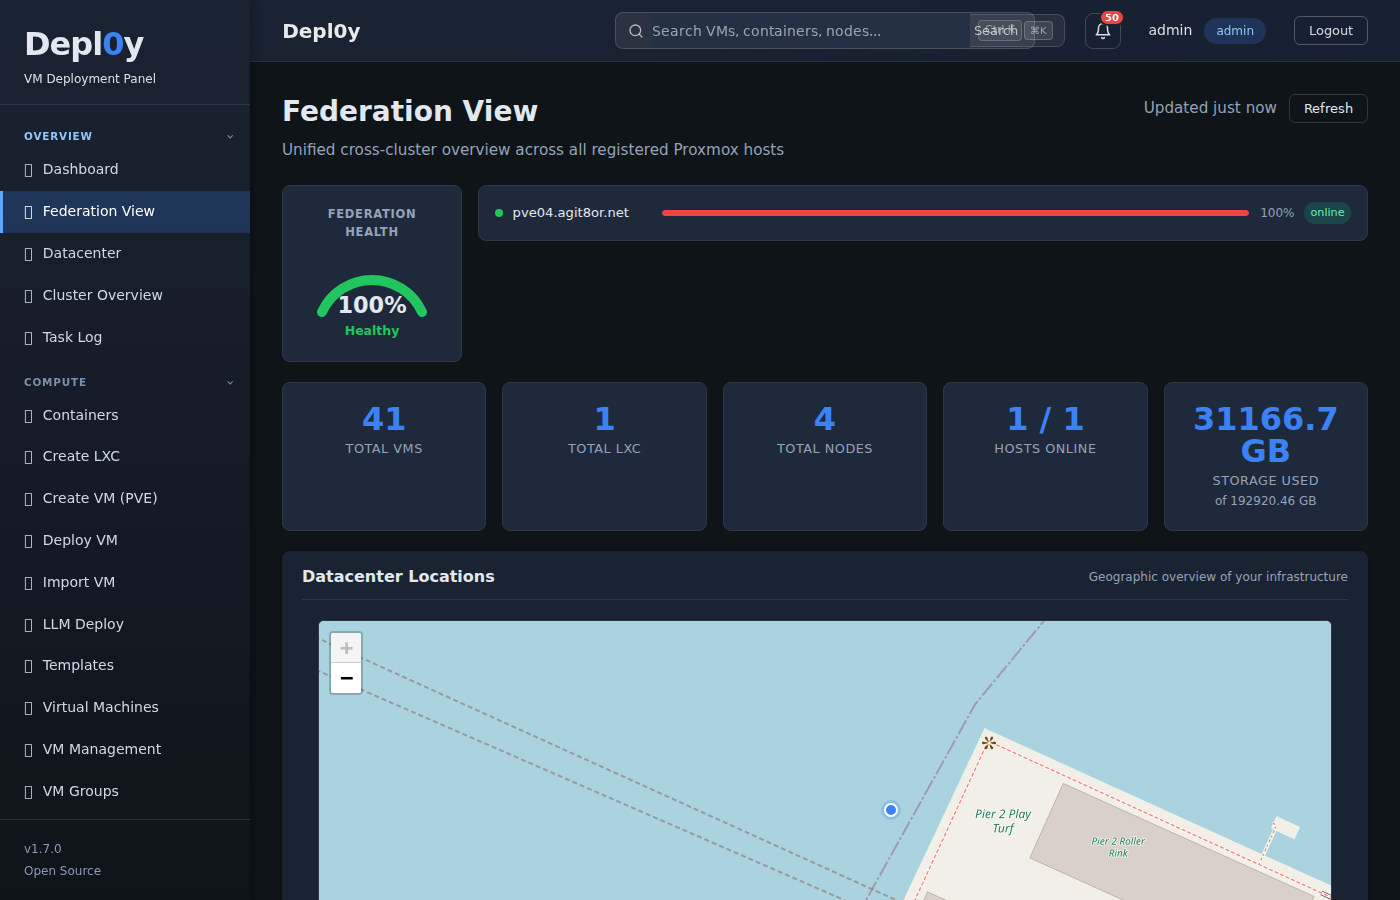
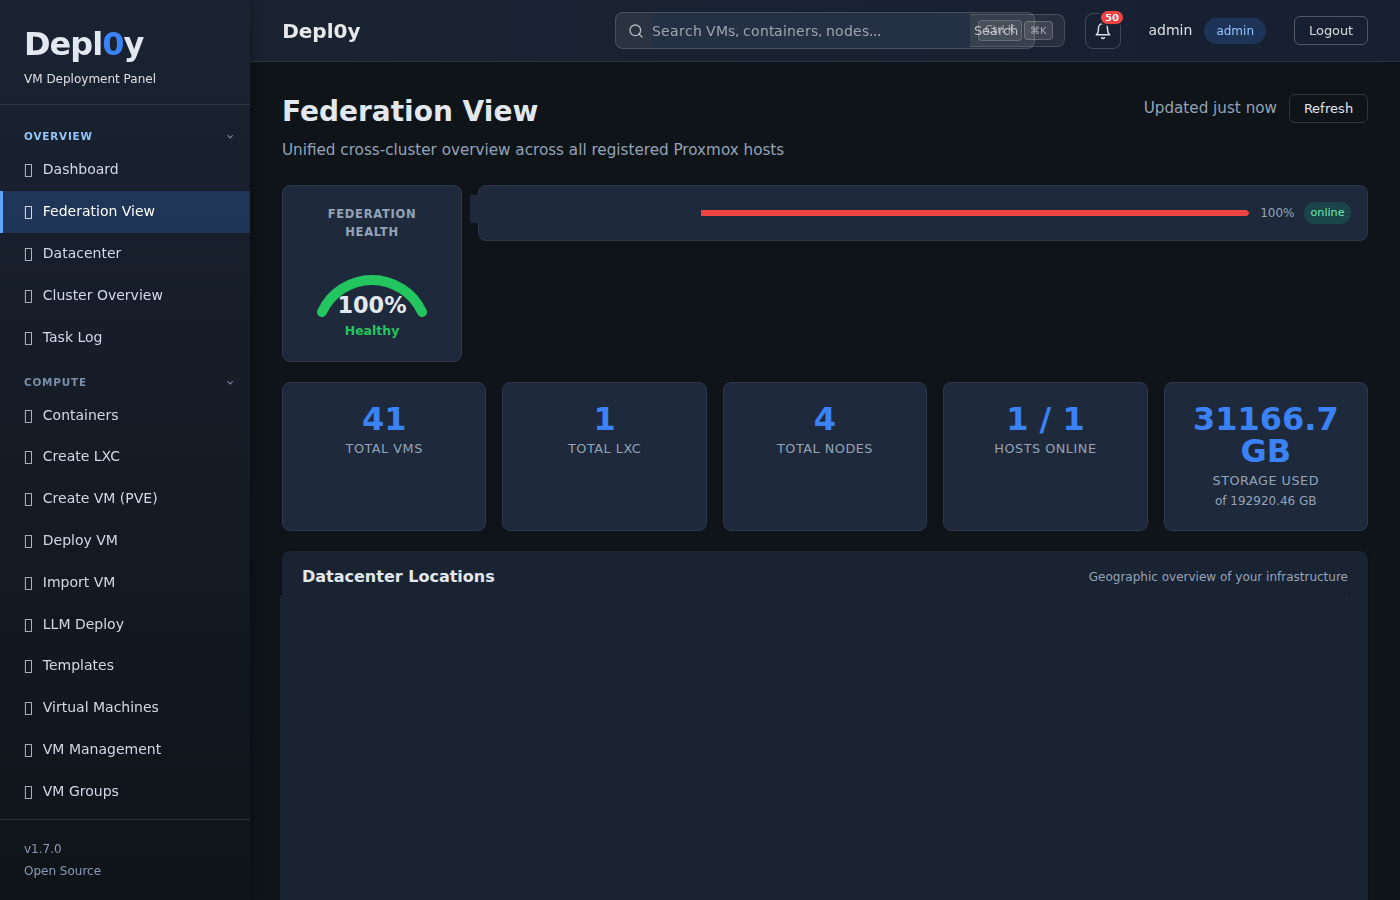
security: redact sensitive info from screenshots, remove 404-page shots
- 02-vm-list: redact real VM domain names (agit8or.net, hfi.vet)
- 03-proxmox-hosts: redact hostname, API URL, BMC IP, cluster FQDN
- 04-federation: redact host label, blank out physical map location
- 13-idrac-dashboard: redact server FQDNs in temp chart and alert bar
- 17-cluster-status: redact host dropdown, cluster name, node IPs
- Remove 01-dashboard, 06-create-vm, 14-deploy-llm (were showing app
  404 pages, not actual feature screenshots)
- Update README to remove broken screenshot references

Changed region(s): [[0.215, 0.6844, 0.9521, 1.0], [0.3379, 0.2178, 0.4914, 0.2489]]

diff --git a/README.md b/README.md
@@ -86,10 +86,6 @@ cd /opt/depl0y && git pull origin main && sudo systemctl restart depl0y-backend
 
 ## Screenshots
 
-### Dashboard
-![Dashboard](screenshots/01-dashboard.png)
-*Real-time overview with clickable stat tiles, network traffic, disk usage per node, recent activity, and resource alerts*
-
 ### VM Management
 ![VM List](screenshots/02-vm-list.png)
 *Manage all VMs and LXC containers with status monitoring, fleet operations, and one-click controls*
@@ -101,10 +97,6 @@ cd /opt/depl0y && git pull origin main && sudo systemctl restart depl0y-backend
 ### Federation Map
 ![Federation](screenshots/04-federation.png)
 *Live OpenStreetMap showing all your datacenters with online (blue) / offline (red) pins — click for details*
-
-### Create VM
-![Create VM](screenshots/06-create-vm.png)
-*Intuitive VM creation wizard with cloud image support for 30-second deployments*
 
 ### Storage Management
 ![Storage](screenshots/08-storage.png)
@@ -125,10 +117,6 @@ cd /opt/depl0y && git pull origin main && sudo systemctl restart depl0y-backend
 ### iDRAC / iLO Dashboard
 ![iDRAC Dashboard](screenshots/13-idrac-dashboard.png)
 *Unified hardware health, power, temperature monitoring for all BMC-equipped servers*
-
-### Deploy LLM
-![Deploy LLM](screenshots/14-deploy-llm.png)
-*One-click LLM deployment with Simple Mode (4 questions) or Advanced Mode (full control)*
 
 ### API Explorer
 ![API Explorer](screenshots/15-api-explorer.png)
